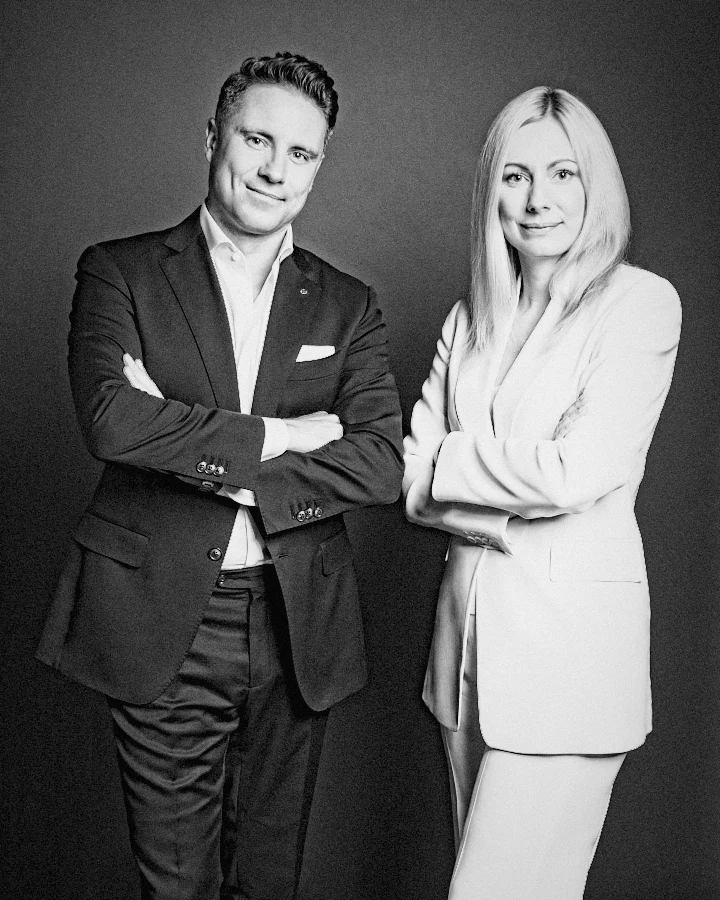
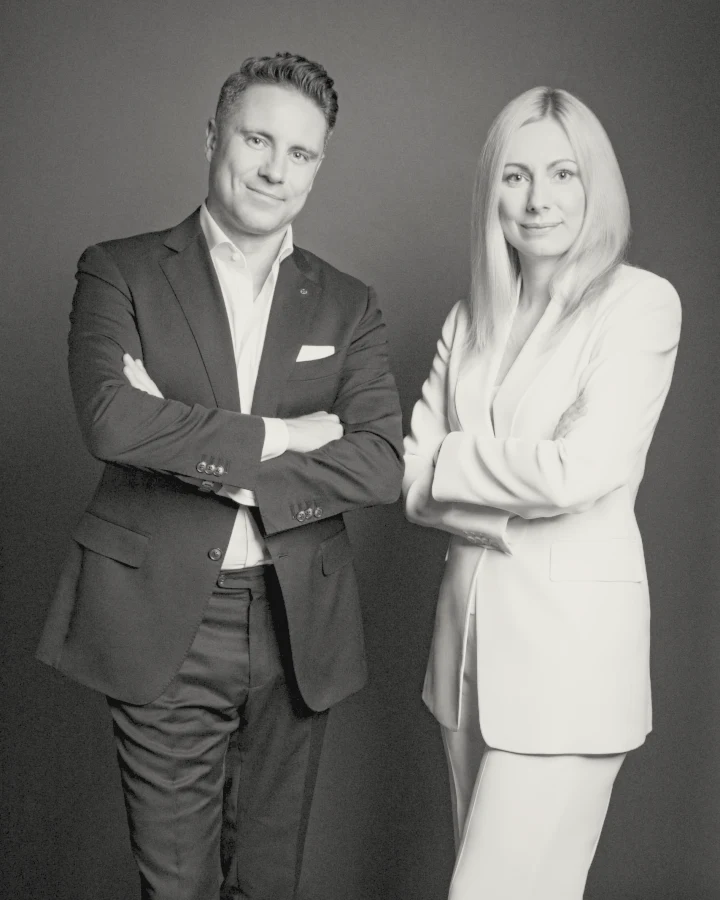
Zespół: łagodniejsze czarno-białe zdjęcia (#24)
Miękki kontrast, lekko uniesione czernie, delikatna faktura i subtelny
ciepły ton; jednakowa jasność wszystkich trzech.

Claude-Session: https://claude.ai/code/session_01JqTzECbEDLjSdFDYMQNNHw

diff --git a/PLACEHOLDERS.md b/PLACEHOLDERS.md
@@ -8,7 +8,7 @@ Wszystko poniżej zostało wpisane jako rozsądne założenie, żeby strona był
 - [ ] Harmonogram: pozwolenie II kw. 2025, start IV kw. 2025, stan surowy IV kw. 2026, oddanie IV kw. 2027
 - [x] Teksty: misja, architektura, udogodnienia, adres i sąsiedztwo, manifest pochodzą z dokumentu Uniqum_www
 - [ ] Teksty sekcji Wnętrza i opisy zespołu (Inwestor, Design Lab, kuratorka): skrócone, do akceptacji; filmy zespołu do dodania
-- [x] Zdjęcia zespołu: czarno-białe w stylu portretów Platona (mocny kontrast, głęboka czerń), ujednolicona jasność, kadr 4:5 (`assets/img/zespol-*.webp`)
+- [x] Zdjęcia zespołu: czarno-białe, miękki kontrast i subtelny ciepły ton, ujednolicona jasność, kadr 4:5 (`assets/img/zespol-*.webp`)
 - [ ] Godziny pracy lobby i zakres obsługi
 
 ## Lokale (`assets/js/units.js`)
